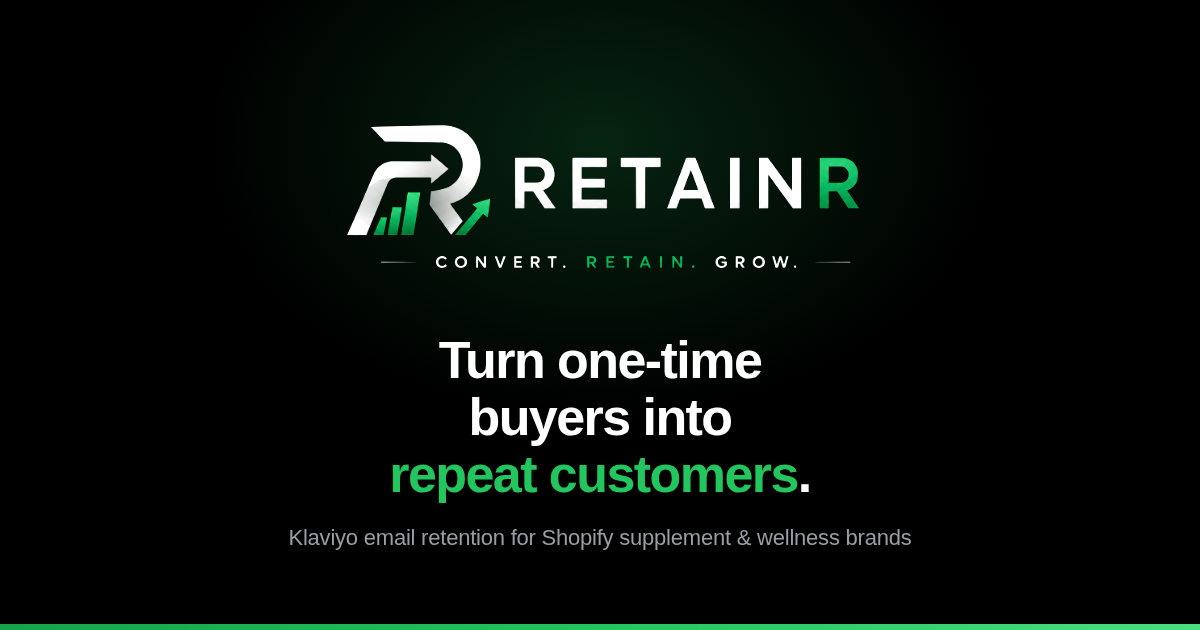
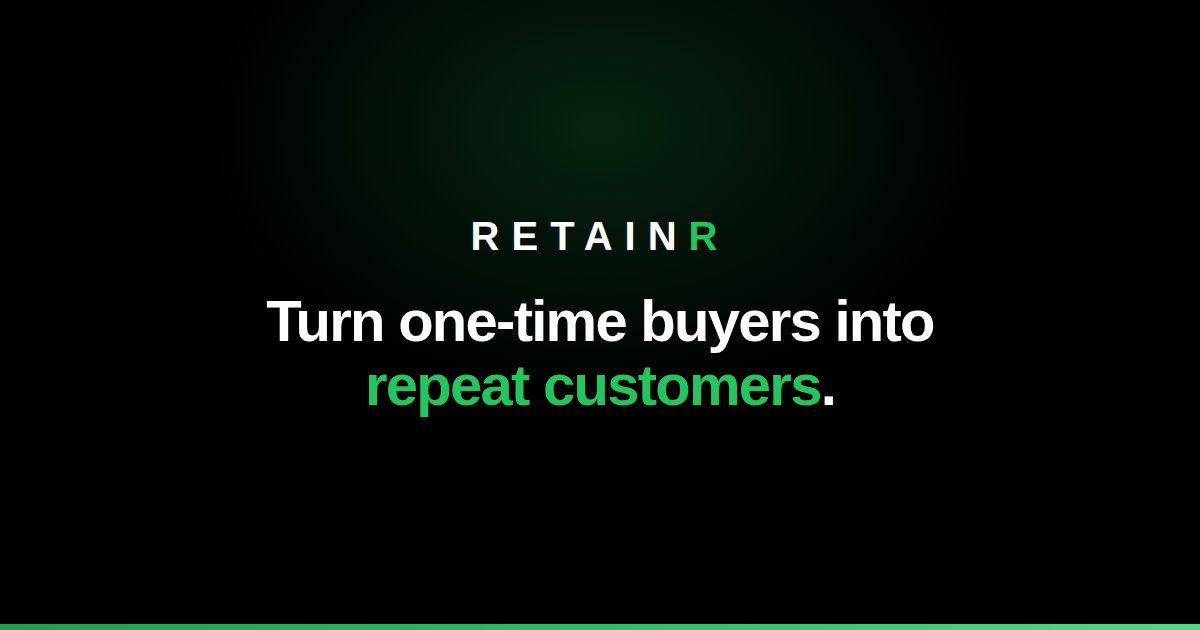
Embed the calendar and hand off to /booked/ on the free plan
Calendly free has no post-booking redirect, so the calendar is embedded
below the form and the page listens for the widget's event_scheduled
message to send people to /booked/ for the numbers. The widget loads only
after the form is submitted, its origin is checked before the message is
acted on, and a link to the Calendly page appears if the script is
blocked or nothing renders, so nobody is stranded. Stage 1 still posts to
Netlify Forms and still carries its summary as UTM values.

The founder block reads as finished with no photo: one centred column,
with a hidden slot that reveals itself and goes two-column the moment
/founder.jpg exists.

The share image is regenerated to spec — wordmark and headline only, in
the site's own colours.

Claude-Session: https://claude.ai/code/session_01CdHCn1afncKLDXbh79EVwG

Changed region(s): [[0.2158, 0.4524, 0.8017, 0.7841], [0.2775, 0.181, 0.74, 0.4222], [0.2467, 0.8444, 0.7708, 0.8746]]

diff --git a/site/start/index.html b/site/start/index.html
@@ -115,6 +115,20 @@ textarea{
 }
 .group-break p{ margin:0; color:var(--muted); font-size:14.5px }
 
+.booking{ display:grid; gap:10px; padding-top:30px; border-top:1px solid var(--line) }
+.booking__title{
+  margin:0; color:var(--white); font-size:1.3rem; letter-spacing:-.02em;
+  font-weight:700; text-align:center;
+}
+.booking__note{ margin:0 0 8px; color:var(--muted); font-size:14.5px; text-align:center }
+.booking__widget{ min-height:660px; border-radius:var(--radius); overflow:hidden }
+.booking__fallback{
+  margin:0; padding:14px 16px; border-radius:var(--radius); text-align:center;
+  background:rgba(248,113,113,.08); border:1px solid rgba(248,113,113,.35);
+  color:#fca5a5; font-size:14.5px;
+}
+.booking__fallback a{ color:var(--green); font-weight:600 }
+
 .group-break__skip{ margin:4px 0 0 }
 .btn-skip{
   display:inline-flex; align-items:center; gap:6px;
@@ -336,9 +350,28 @@ footer{
 
     <div class="actions">
       <button type="submit" id="submit">Continue to booking</button>
-      <p class="note">Next step is the calendar, where you'll pick a 15-minute slot.</p>
+      <p class="note">The calendar opens below — pick a 15-minute slot.</p>
     </div>
   </form>
+
+  <!--
+    Calendly's free plan has no post-booking redirect, so the calendar is
+    embedded here instead and the page listens for the widget's
+    "calendly.event_scheduled" message to move people on to /booked/.
+    Nothing loads until the form is submitted.
+  -->
+  <section class="booking" id="book" hidden aria-live="polite">
+    <h2 class="booking__title">Pick a time</h2>
+    <p class="booking__note">Your answers are in — last step is the calendar.</p>
+
+    <div class="booking__widget" id="calendly"></div>
+
+    <p class="booking__fallback" id="calendly-fallback" hidden>
+      The calendar didn't load.
+      <a href="https://calendly.com/panellig697/about-retainr-build-a-relationship-w-clients"
+         target="_blank" rel="noopener">Open it in a new tab →</a>
+    </p>
+  </section>
 
   <footer>Convert. Retain. Grow.</footer>
 
@@ -423,16 +456,16 @@ footer{
     }
 
     button.disabled = true;
-    button.textContent = "Taking you to the calendar…";
+    button.textContent = "Opening the calendar…";
 
     var next = bookingUrl(data);
 
-    /* Post to Netlify Forms, then redirect either way: a booking is worth more
-       than a stored submission, so a failed post never blocks the hand-off. */
+    /* Post to Netlify Forms, then open the calendar either way: a booking is
+       worth more than a stored submission, so a failed post never blocks it. */
     var body = new URLSearchParams();
     fd.forEach(function (v, k) { if (typeof v === "string") body.append(k, v); });
 
-    var go = function () { window.location.href = next; };
+    var go = function () { showCalendar(next); };
 
     fetch(form.getAttribute("action") || window.location.pathname, {
       method: "POST",
@@ -442,6 +475,62 @@ footer{
 
     // don't strand anyone if the network hangs
     setTimeout(go, 3000);
+  });
+
+  /* ---- the embedded calendar ---------------------------------------
+     Loads Calendly's widget on demand, falls back to a plain link if the
+     script or the widget doesn't come up, and moves people to /booked/
+     the moment the widget says a slot has been booked.
+  ------------------------------------------------------------------- */
+  var calendarOpened = false;
+
+  function showCalendar(url) {
+    var section = document.getElementById("book");
+    var mount   = document.getElementById("calendly");
+    var fallback = document.getElementById("calendly-fallback");
+
+    section.hidden = false;
+    if (calendarOpened) return;
+    calendarOpened = true;
+    section.scrollIntoView({ behavior: "smooth", block: "start" });
+
+    var failed = function () {
+      fallback.hidden = false;
+      mount.style.minHeight = "0";
+    };
+
+    var css = document.createElement("link");
+    css.rel = "stylesheet";
+    css.href = "https://assets.calendly.com/assets/external/widget.css";
+    document.head.appendChild(css);
+
+    var script = document.createElement("script");
+    script.src = "https://assets.calendly.com/assets/external/widget.js";
+    script.async = true;
+    script.onerror = failed;
+    script.onload = function () {
+      if (!window.Calendly) return failed();
+      window.Calendly.initInlineWidget({
+        url: url + "&hide_gdpr_banner=1&background_color=0a0a0b&text_color=d6d8dc&primary_color=22c55e",
+        parentElement: mount
+      });
+    };
+    document.head.appendChild(script);
+
+    // if nothing has rendered by now, the embed isn't coming
+    setTimeout(function () {
+      if (!mount.querySelector("iframe")) failed();
+    }, 8000);
+  }
+
+  /* Calendly posts a message when a slot is booked — that's the cue to ask
+     for the numbers on /booked/. */
+  window.addEventListener("message", function (e) {
+    if (!/calendly\.com$/.test(new URL(e.origin).hostname)) return;
+    var name = e.data && e.data.event;
+    if (name === "calendly.event_scheduled") {
+      window.location.href = "/booked/";
+    }
   });
 
   // clear the error state as soon as a question gets answered

diff --git a/site/styles.css b/site/styles.css
@@ -627,55 +627,27 @@ h1, h2, h3 {
 }
 
 /* ----------------------------- founder ---------------------------- */
+/* Reads as finished with no photo: one centred column. The photo, when it
+   exists, turns it into a two-column block. */
 .founder {
   display: grid;
   gap: clamp(20px, 4vw, 34px);
-  align-items: center;
   justify-items: center;
   text-align: center;
 }
-@media (min-width: 680px) {
-  .founder {
-    grid-template-columns: auto 1fr;
-    justify-items: start;
-    text-align: left;
-  }
-}
 
-.founder__portrait {
-  position: relative;
+.founder__photo {
   width: 132px; height: 132px;
-  flex: none;
   border-radius: 50%;
-  overflow: hidden;
-  background: var(--surface-2);
+  object-fit: cover;
   border: 1px solid var(--line-strong);
 }
-.founder__portrait img {
-  position: absolute;
-  inset: 0;
-  width: 100%; height: 100%;
-  object-fit: cover;
-  z-index: 1;
-}
-/* the placeholder sits underneath, so it shows until the photo exists */
-.founder__portrait svg {
-  width: 100%; height: 100%;
-  fill: none;
-  stroke: #3d4048;
-  stroke-width: 3;
-  stroke-linecap: round;
-}
 
-.founder__text { display: grid; gap: 14px; max-width: 54ch; }
-.founder__title {
-  margin: 0;
-  font-size: clamp(1.35rem, 3.4vw, 1.75rem);
-}
+.founder__text { display: grid; gap: 14px; max-width: 56ch; }
+.founder__title { margin: 0; font-size: clamp(1.35rem, 3.4vw, 1.75rem); }
 .founder__text p { margin: 0; color: var(--muted); font-size: 1.02rem; }
 
 .founder__link {
-  justify-self: center;
   display: inline-flex;
   align-items: center;
   gap: 6px;
@@ -684,9 +656,17 @@ h1, h2, h3 {
   font-weight: 600;
   text-decoration: none;
 }
-@media (min-width: 680px) { .founder__link { justify-self: start; } }
 .founder__link:hover { color: var(--green-bright); text-decoration: underline; }
 .founder__link svg { width: 15px; height: 15px; }
+
+@media (min-width: 680px) {
+  .founder--photo {
+    grid-template-columns: auto 1fr;
+    justify-items: start;
+    align-items: center;
+    text-align: left;
+  }
+}
 
 /* ------------------------------- FAQ ------------------------------ */
 .faq {

diff --git a/site/index.html b/site/index.html
@@ -244,24 +244,25 @@
   <!-- =========================== FOUNDER ========================== -->
   <section class="section" id="founder">
     <div class="wrap founder">
-      <div class="founder__portrait">
-        <!-- Supply /founder.jpg (square, 400px or larger). Until it exists the
-             neutral placeholder below shows instead. -->
-        <img src="/founder.jpg" alt="Gio Panelli, founder of Retainr"
-             onerror="this.remove()" />
-        <svg viewBox="0 0 64 64" aria-hidden="true" focusable="false">
-          <circle cx="32" cy="24" r="11"/>
-          <path d="M12 56c2.5-11 10.5-16 20-16s17.5 5 20 16"/>
-        </svg>
-      </div>
+      <!--
+        No photo yet. The slot below stays hidden until /founder.jpg actually
+        loads — drop an 800x800 file at the site root and it appears, circular,
+        with no other change needed.
+      -->
+      <img class="founder__photo" src="/founder.jpg" alt="Gio Panelli, founder of Retainr"
+           width="800" height="800" hidden
+           onload="this.hidden = false; document.querySelector('.founder').classList.add('founder--photo')"
+           onerror="this.remove()" />
 
       <div class="founder__text">
         <h2 class="founder__title">Who you'll be working with</h2>
         <p>
           Retainr is me, Gio Panelli. I build and write every flow myself, from Jersey,
           for a small number of Shopify brands at a time.
-          <!-- ONE LINE FROM GIO GOES HERE — paste it inside this paragraph, then
-               delete this comment. Nothing renders while it sits in a comment. -->
+        </p>
+        <p>
+          I started this because too many brands work hard for the first sale and leave
+          the second to chance.
         </p>
         <a class="founder__link" href="https://www.linkedin.com/in/gio-panelli-946870421"
            target="_blank" rel="noopener">
